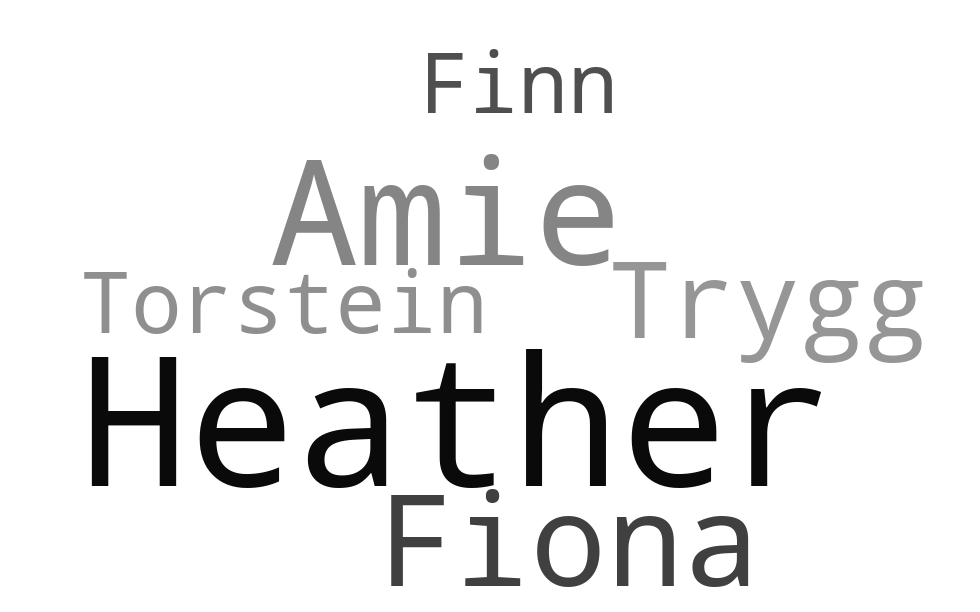
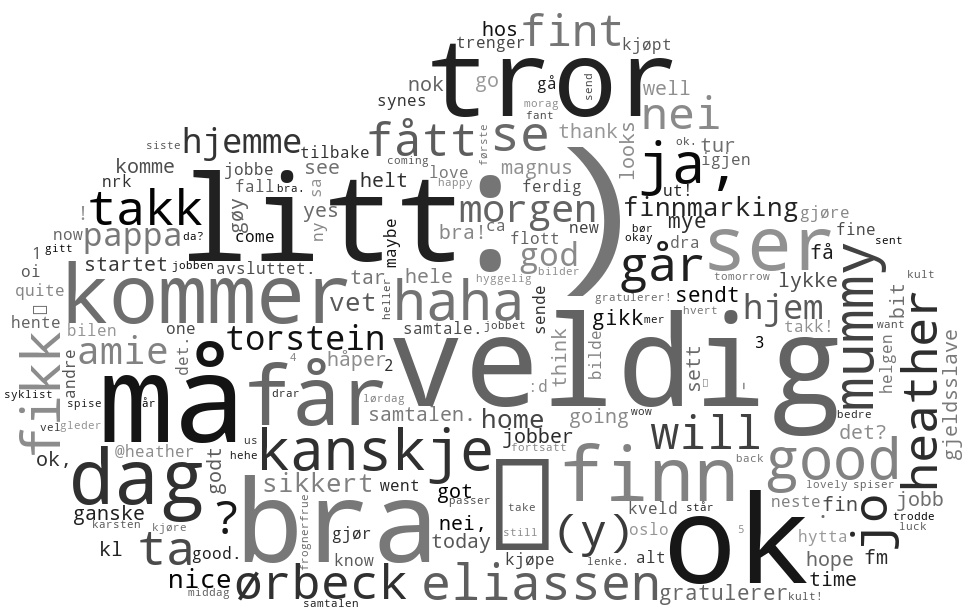
Read how many json files and adapt accordingly

Changed region(s): [[0.0, 0.031, 0.9796, 0.9935]]

diff --git a/messenger-wc.py b/messenger-wc.py
@@ -7,6 +7,7 @@ import numpy as np
 from stop_words import get_stop_words
 import multidict as multidict
 
+
 extra_words = """
 å alle at av både båe bare begge ble blei bli blir blitt då da de deg dei deim deira deires dem den denne der dere deres det dette di din disse ditt du dykk dykkar eg ein eit eitt eller elles en enn er et ett etter før for fordi fra ha hadde han hans har hennar henne hennes her hjå ho hoe honom hoss hossen hun hva hvem hver hvilke hvilken hvis hvor hvordan hvorfor i ikke ikkje ingen ingi inkje inn inni ja jeg kan kom korleis korso kun kunne kva kvar kvarhelst kven kvi kvifor man mange me med medan meg meget mellom men mi min mine mitt mot mykje nå når ned no noe noen noka noko nokon nokor nokre og også om opp oss over på så sånn samme seg selv si sia sidan siden sin sine sitt sjøl skal skulle slik so som somme somt til um upp ut uten vår være vært var vart varte ved vere verte vi vil ville vore vors vort
 """.split()
@@ -28,14 +29,15 @@ def update_table_senders(table, message):
         table[message["sender_name"].split()[0]] = 0
     
 def create_table_from_senders():
-    data1 = get_json_data_from_file("message_1.json")
-    data2 = get_json_data_from_file("message_2.json")
+    data = []
+    for i in range(num_files):
+        data.append(get_json_data_from_file("message_" + str(i+1)+ ".json"))
 
     table =dict()
-    for message in data1["messages"]:
-        update_table_senders(table, message)
-    for message in data2["messages"]:
-        update_table_senders(table, message)
+    for i in range(num_files):
+        for message in data[i]["messages"]:
+            update_table_senders(table, message)
+
     multiDictTable = multidict.MultiDict()
     total, maxFreq, maxName = 0, 0, ""
     for key in table:
@@ -64,14 +66,14 @@ def update_table_content(table, message):
                     table[word] = 0
 
 def create_table_from_content():
-    data1 = get_json_data_from_file("message_1.json")
-    data2 = get_json_data_from_file("message_2.json")
+    data = []
+    for i in range(num_files):
+        data.append(get_json_data_from_file("message_" + str(i+1)+ ".json"))
 
     table =dict()
-    for message in data1["messages"]:
-        update_table_content(table, message)
-    for message in data2["messages"]:
-        update_table_content(table, message)
+    for i in range(num_files):
+        for message in data[i]["messages"]:
+            update_table_content(table, message)
 
     multiDictTable = multidict.MultiDict()
     for key in table:
@@ -85,6 +87,11 @@ def create_wordcloud_freq(table):
     wc.recolor(color_func=color_func)
     wc.to_file(os.path.join(currdir + "generated-wordclouds/", "wordcloud.png"))
 
-create_wordcloud_freq(create_table_from_senders())
+num_files = 0
+for file in os.listdir():
+    if file.endswith(".json"):
+        num_files += 1
 
-#create_wordcloud_freq(create_table_from_content())
+#create_wordcloud_freq(create_table_from_senders())
+
+create_wordcloud_freq(create_table_from_content())

diff --git a/README.md b/README.md
@@ -1,16 +1,17 @@
 # Messenger clouds
 
 Make a wordcloud from your facebook messages using wordcloud, pillow, numpy, stop\_words, multidict. Instructions below. 
-**Please contact me for any questions**
+_Please contact me for any questions_
 
 Thanks to [MrGarret45](https://github.com/mrgarrett45/songclouds) for inspiration and for showing how to use the wordcloud library. 
 
 
 ## Getting started
 
-### 1. Fetch your Facebook data
+### 1. Fetch your facebook data
 
-Go to settings on facebook (small triangle in upper right corner) and go to the section: "Your Facebook Information". Press "Download your information" and check only "Messages". Download in JSON format. 
+Go to settings on facebook (small triangle in upper right corner) and go to the section: "Your Facebook Information". 
+Press "Download your information" and download only "Messages". **Download in JSON format**. 
 
 ### 2. Install Python 3+
 
@@ -19,18 +20,18 @@ Python 3 can be installed from [https://www.python.org/downloads/](https://www.p
 
 ### 3. Go for a long walk.
 
-The download of Facebook data takes time, it took me three hours. 
+The download of facebook data takes time, it took me three hours...
 
 ### 4. Clone this repository
 
 ```
 git clone https://github.com/torsteoe/messenger-wordclouds.git
-
 ```
 
 ### 5. Place facebook files in repository directory
 
-Unpack zip-file and choose a chat you want to make a wordcloud out of. Move all files from /messages/inbox/i\[chat\name\] called message\_1.json, message\_2.json etc to the repository directory. In my script I read from 2 json files, this can be reduced or expanded. 
+Unpack zip-file and choose a chat you want to make a wordcloud out of. 
+Move all files from /messages/inbox/i\[chat name\] called message\_1.json, message\_2.json etc to the repository directory. 
 
 ### 6. Install dependencies
 
